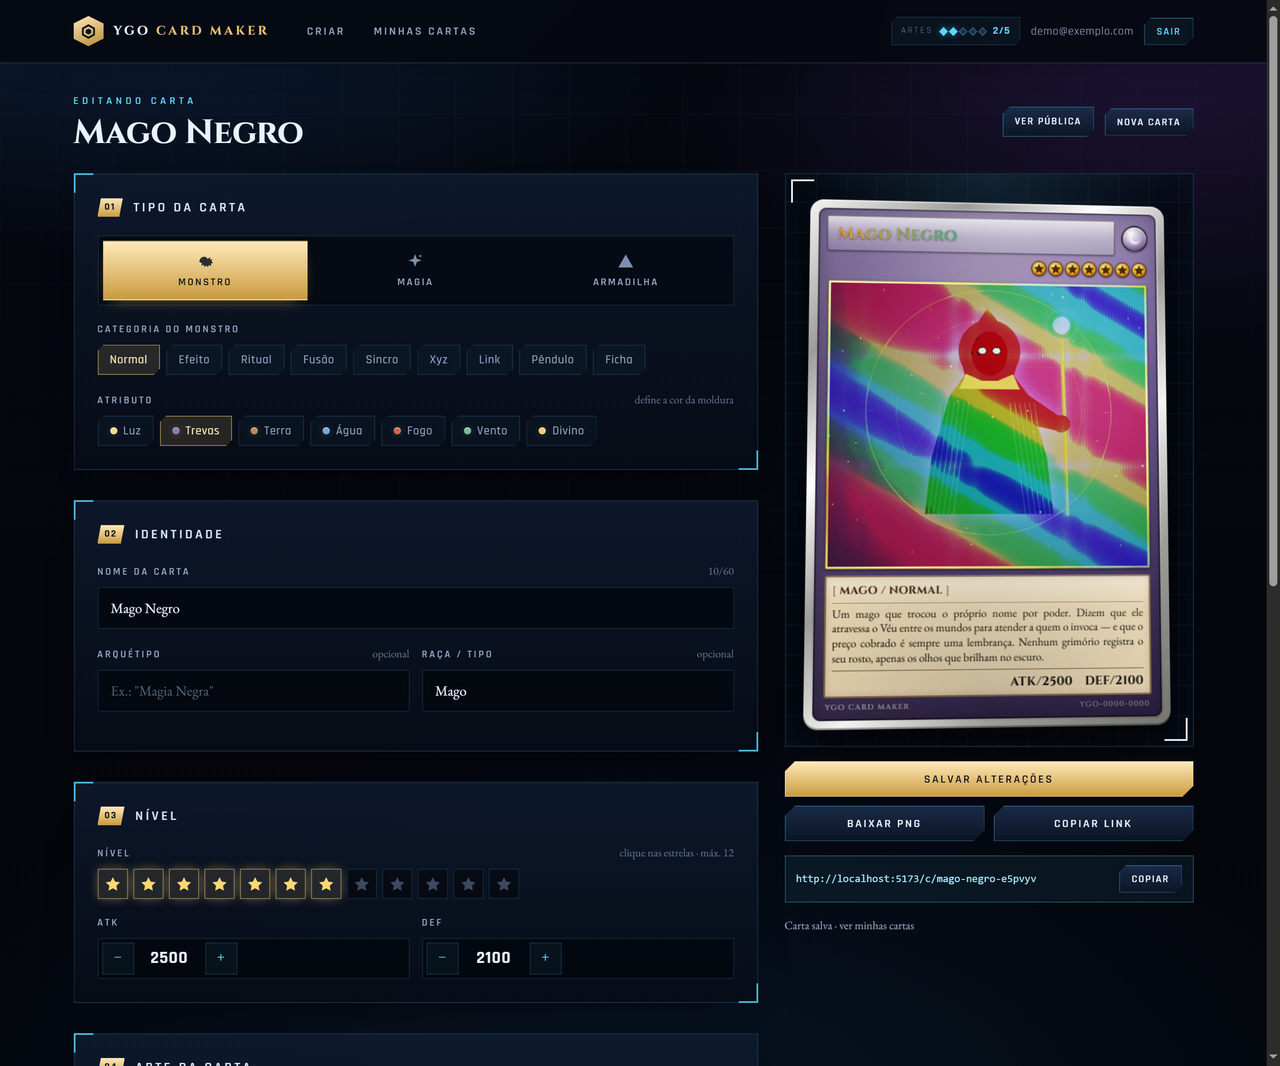
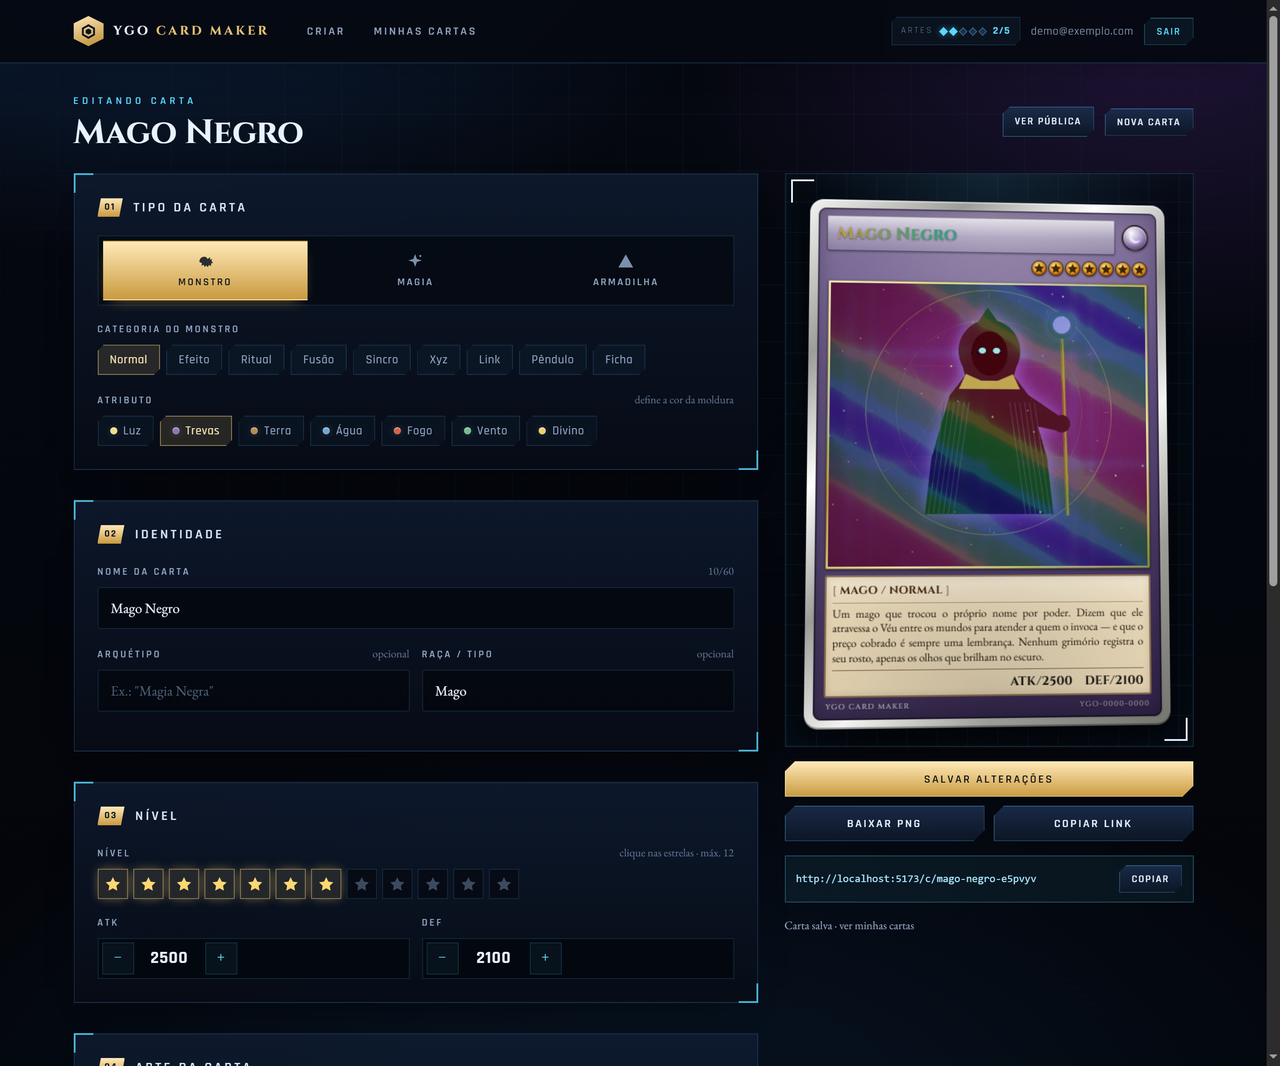
style(card): suaviza o foil (--foil 0.45) e atualiza capturas

Changed region(s): [[0.625, 0.1857, 0.9062, 0.5572], [0.625, 0.6191, 0.6562, 0.6811]]

diff --git a/shared/card.css b/shared/card.css
@@ -322,6 +322,8 @@
   --pointer-from-top: 0.5;
   --pointer-from-left: 0.5;
   --card-opacity: 0.55;
+  /* intensidade do foil: 0 desliga, 1 = versão anterior, 0.6 = sutil */
+  --foil: 0.45;
 
   transform: perspective(1000px) rotateX(var(--rx)) rotateY(var(--ry));
   transition: transform 0.45s cubic-bezier(0.22, 1, 0.36, 1);
@@ -338,12 +340,12 @@
   z-index: 6;
   border-radius: 2px;
   pointer-events: none;
-  opacity: calc(var(--card-opacity) * 0.55);
+  opacity: calc(var(--card-opacity) * 0.55 * var(--foil));
   background-size: 400% 400%;
   background-position: calc(((50% - var(--background-x)) * var(--pwx, 2.6)) + 50%)
     calc(((50% - var(--background-y)) * var(--pwy, 3.5)) + 50%);
   mix-blend-mode: color-dodge;
-  filter: contrast(1.2) saturate(1.15);
+  filter: contrast(1.08) saturate(1);
   transition: opacity 0.35s ease;
 }
 
@@ -377,7 +379,7 @@
   );
   mix-blend-mode: luminosity;
   filter: brightness(0.62) contrast(3);
-  opacity: calc(var(--card-opacity) * 0.65);
+  opacity: calc(var(--card-opacity) * 0.65 * var(--foil));
 }
 
 /* verniz sobre a carta inteira ---------------------------------------------- */
@@ -395,7 +397,7 @@
   );
   mix-blend-mode: overlay;
   filter: brightness(0.9) contrast(1.4);
-  opacity: calc(var(--card-opacity) * 0.55);
+  opacity: calc(var(--card-opacity) * 0.55 * var(--foil));
 }
 
 /* comum --------------------------------------------------------------------- */
@@ -422,7 +424,7 @@
     #b6c0cc 100%
   );
   mix-blend-mode: soft-light;
-  filter: brightness(1.15) contrast(1.25) saturate(0.5);
+  filter: brightness(1.1) contrast(1.1) saturate(0.45);
 }
 
 /* super rara: holo azulado, rainbow frio ----------------------------------- */
@@ -443,7 +445,7 @@
     #d6f3ff 70%,
     #8fd8ff 82%
   );
-  filter: brightness(1.1) contrast(1.2) saturate(1.35);
+  filter: brightness(1.05) contrast(1.1) saturate(1.1);
 }
 
 /* ultra rara: holo dourado quente ------------------------------------------ */
@@ -464,7 +466,7 @@
     #b06a00 70%,
     #ffe9a8 82%
   );
-  filter: brightness(1.12) contrast(1.2) saturate(1.5);
+  filter: brightness(1.08) contrast(1.1) saturate(1.3);
 }
 
 /* secret rara: rainbow diagonal 30° + grid cruzado (YGO) -------------------- */
@@ -497,7 +499,7 @@
     calc(var(--px) * -0.5) 0,
     calc(var(--px) * -0.3) 0;
   background-blend-mode: color, color-dodge, color-dodge, color-dodge;
-  filter: brightness(1.05) contrast(1.25) saturate(1.3);
+  filter: brightness(1) contrast(1.15) saturate(1.05);
 }
 
 /* prismática: bandas finas 82° (cosmos) ------------------------------------- */
@@ -524,7 +526,7 @@
     hsl(53, 85%, 68%) calc(var(--space) * 12)
   );
   background-size: 400% 900%;
-  filter: brightness(1.15) contrast(1.35) saturate(1.5);
+  filter: brightness(1.1) contrast(1.2) saturate(1.25);
 }
 
 /* ultimate: relevo metálico, sem cor --------------------------------------- */
@@ -604,7 +606,7 @@
     0 0, 0 0, 0 0, 0 0, 0 0, 0 0, 0 0, 0 0,
     calc(((50% - var(--background-x)) * 2.8) + 50%) calc(((50% - var(--background-y)) * 3.6) + 50%);
   background-blend-mode: screen, screen, screen, screen, screen, screen, screen, screen, color-dodge;
-  filter: brightness(1.15) contrast(1.3) saturate(1.35);
+  filter: brightness(1.1) contrast(1.15) saturate(1.15);
 }
 
 /* brilho da arte (todos os foil) -------------------------------------------- */
@@ -613,7 +615,7 @@
   inset: 0;
   z-index: 2;
   pointer-events: none;
-  opacity: calc(var(--card-opacity) * 0.5);
+  opacity: calc(var(--card-opacity) * 0.5 * var(--foil));
   mix-blend-mode: color-dodge;
   background: radial-gradient(
     circle 60% at calc(50% + var(--px) * 0.7) calc(50% + var(--py) * 0.7),
@@ -639,7 +641,7 @@
 }
 
 .ygo-card[data-rarity='ultimate'] .ygo-card__grain {
-  opacity: calc(var(--card-opacity) * 0.7);
+  opacity: calc(var(--card-opacity) * 0.7 * var(--foil));
 }
 
 .ygo-card__stars {
@@ -664,7 +666,7 @@
 }
 
 .ygo-card[data-rarity='starlight'] .ygo-card__stars {
-  opacity: calc(var(--card-opacity) * 0.95);
+  opacity: calc(var(--card-opacity) * 0.95 * var(--foil));
 }
 
 .ygo-card__sparkle {
@@ -687,11 +689,11 @@
 .ygo-card[data-rarity='secret'] .ygo-card__sparkle,
 .ygo-card[data-rarity='prismatic'] .ygo-card__sparkle,
 .ygo-card[data-rarity='ghost'] .ygo-card__sparkle {
-  opacity: calc(var(--card-opacity) * 0.5);
+  opacity: calc(var(--card-opacity) * 0.5 * var(--foil));
 }
 
 .ygo-card[data-rarity='starlight'] .ygo-card__sparkle {
-  opacity: calc(var(--card-opacity) * 0.8);
+  opacity: calc(var(--card-opacity) * 0.8 * var(--foil));
 }
 
 /* movimento ambiente por raridade ------------------------------------------- */
@@ -805,10 +807,10 @@
 @keyframes ygo-foil-twinkle {
   0%,
   100% {
-    opacity: calc(var(--card-opacity) * 0.55);
+    opacity: calc(var(--card-opacity) * 0.55 * var(--foil));
   }
   50% {
-    opacity: calc(var(--card-opacity) * 0.95);
+    opacity: calc(var(--card-opacity) * 0.95 * var(--foil));
   }
 }
 

diff --git a/README.md b/README.md
@@ -249,6 +249,9 @@ Camadas: `.ygo-card__foil` (padrão da raridade), `.ygo-card__holo` (brilho na a
 `.ygo-card__grain` (relevo), `.ygo-card__stars` (estrelas), `.ygo-card__sparkle` (glitter) e
 `.ygo-card__glare` (verniz que segue o ponteiro).
 
+A intensidade tem **um único botão**: `--foil` em `.ygo-card` (`0` desliga, `0.45` é o padrão
+discreto, `1` é o máximo — o mesmo valor vale para as 9 raridades).
+
 ![Quatro raridades](docs/img/rarities.png)
 
 ### Arte de exemplo e créditos
